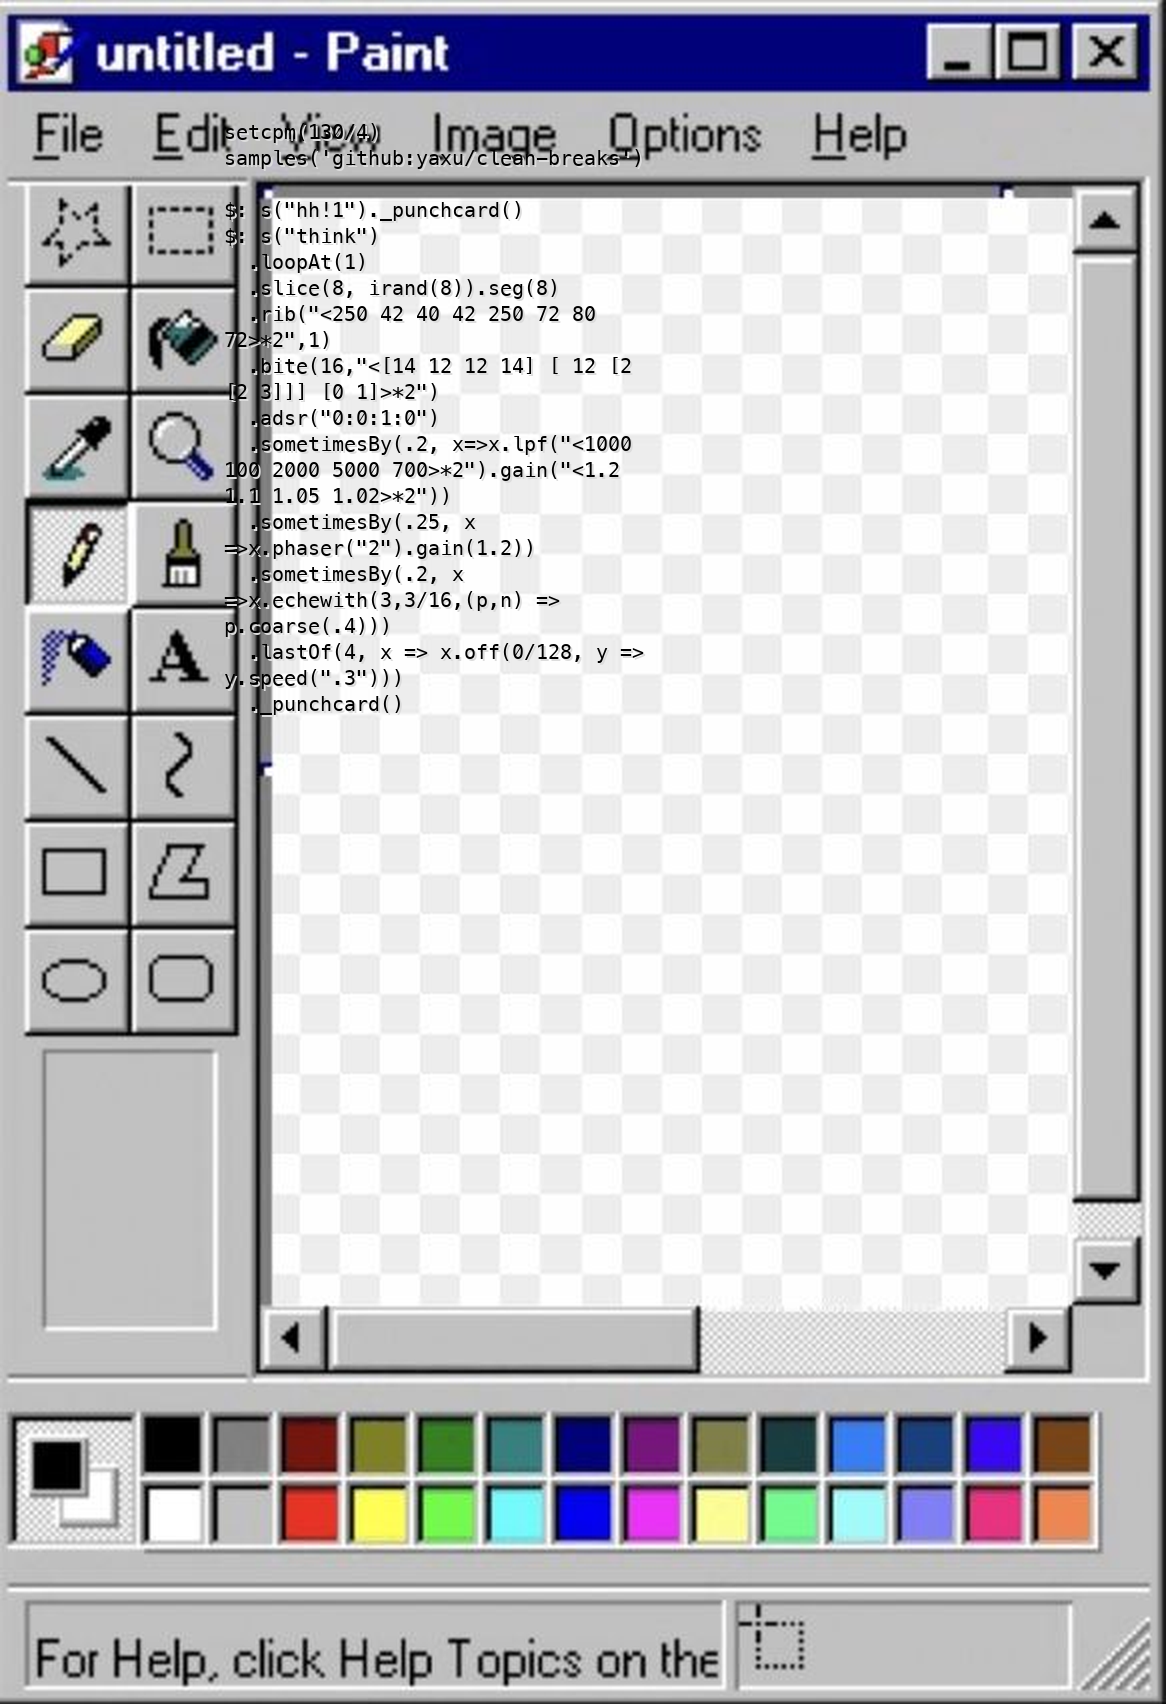
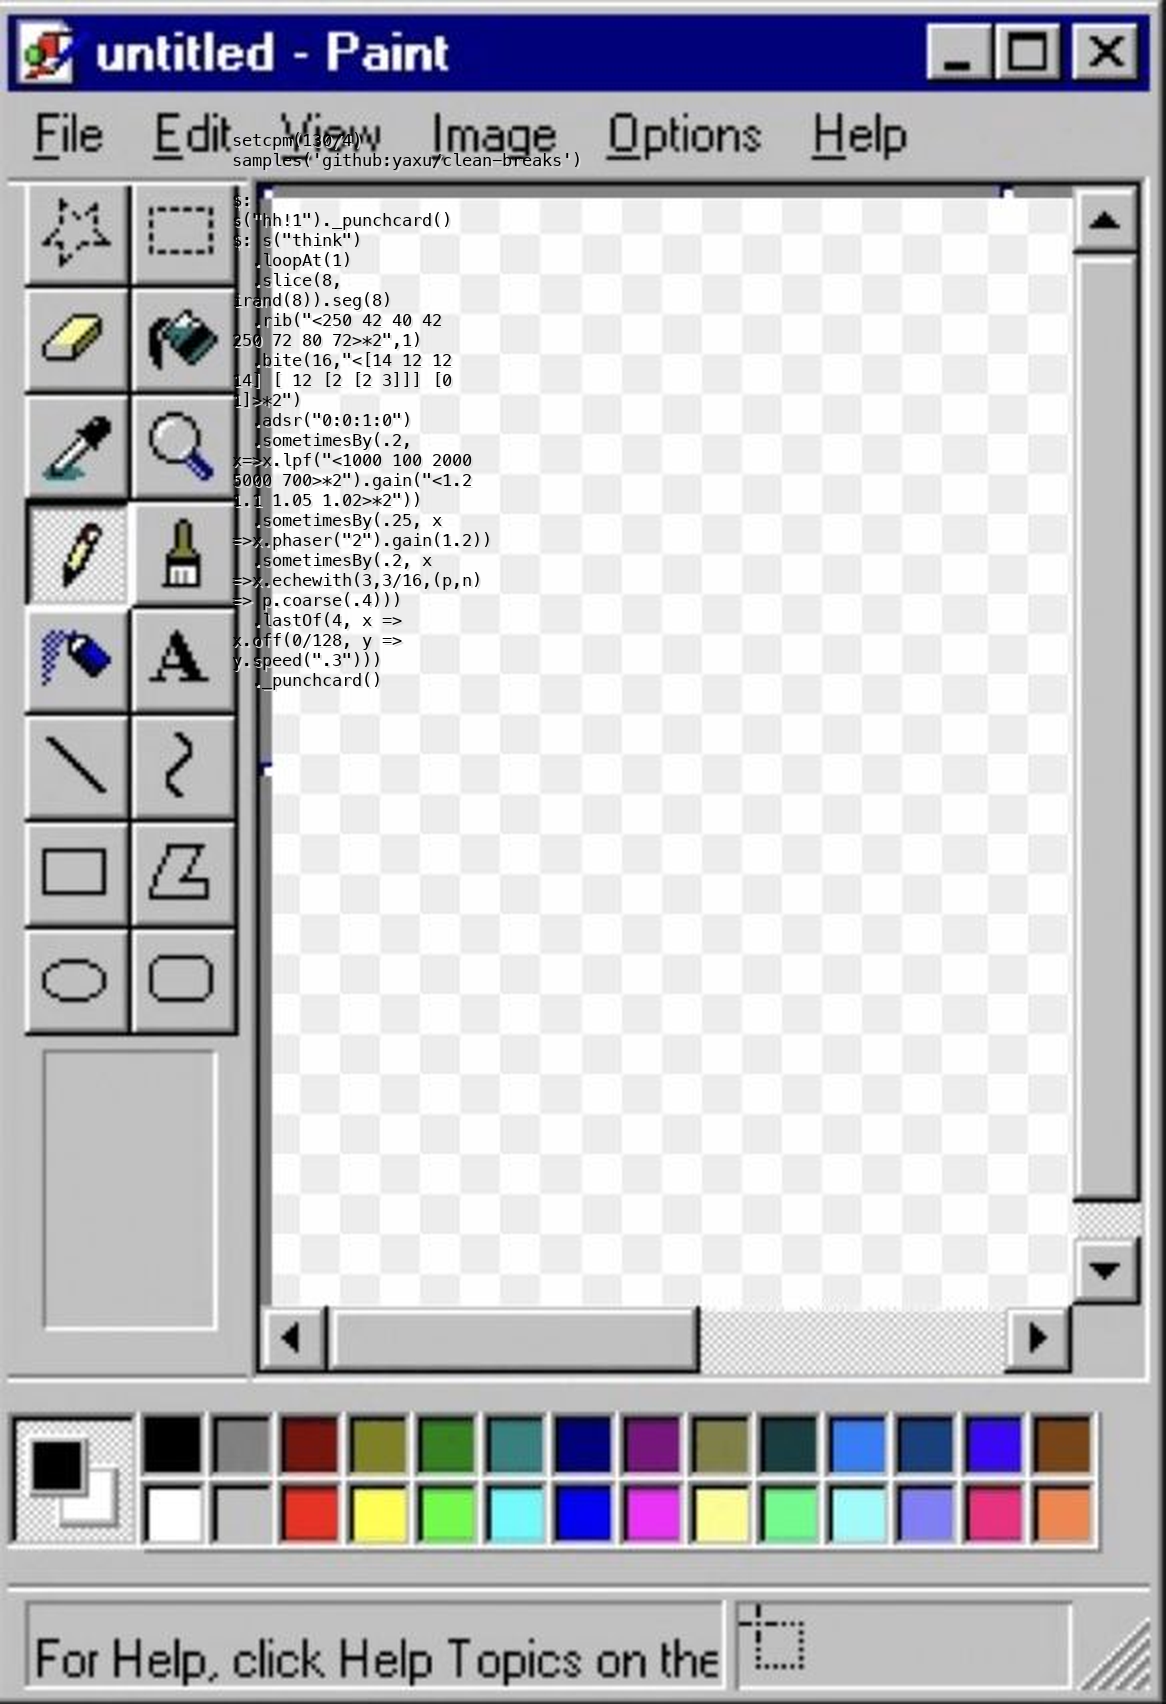
fix(dj-verbosa): make Paint the focal point with readable 17pt code
Three changes that put the Paint95 component front-and-center on
the /dj-verbosa/ page and make the Strudel code genuinely
readable inside it:

1. **Image regen at 2x scale with 17pt font.** The previous
   image was 11pt inside a 260×345 white blank (way too small to
   read on screen). Now the template is 2x (1166×1704) and the
   Menlo text is rendered at 17pt with a 2px drop-shadow for
   legibility on the white background. Soft-wrap at 24 chars/
   line so the 88-char longest line wraps cleanly. Text starts
   at y=130 (well below the menu bar at y=48-90) and ends at
   y=690 — comfortably inside the 760px canvas bottom.

2. **Drop the 'em tempo real' phrase in the readme card.** The
   readme still claimed 'Verbosa escreve o set em tempo real
   com Strudel', which describes a live-coding UX. The
    now renders a baked MS Paint image (static), so
   that's misleading. Changed to 'Verbosa compõe o set com
   Strudel' — accurate for the static-image copy flow the page
   now supports.

3. **Paint95 canvas scrolls cleanly.** The 2x image overflows
   a 1440px viewport, so the parent canvas has overflow-auto
   + image-rendering:pixelated + height:auto. The user lands
   on the title bar, but the image onLoad handler scrolls the
   wrapper 90px down so the first line of code is visible
   immediately without manual scrolling.

Verified rendered: 17pt monospace is comfortably readable. The
canvas (516px tall visible area) shows roughly the top third of
[…]

Changed region(s): [[0.1852, 0.0622, 0.5557, 0.4354]]

diff --git a/app/dj-verbosa/page.tsx b/app/dj-verbosa/page.tsx
@@ -82,8 +82,7 @@ export default function DjVerbosaPage() {
               </p>
               <p className="win-body-sm">
                 Verbosa é a persona de <strong>live-code</strong> da Cremosa.
-                Em vez de mixar faixas prontas, Verbosa escreve o set em tempo
-                real com{" "}
+                Em vez de mixar faixas prontas, Verbosa compõe o set com{" "}
                 <a
                   href="https://strudel.cc/"
                   target="_blank"
@@ -153,7 +152,26 @@ export default function DjVerbosaPage() {
               </ol>
             </div>
           </Win95Window>
-<Win95Window title="explorar.exe — voltar pra pista" controls>
+
+          <Win95Window title="chrome — explorar.cfg" controls>
+            <div className="p-4 sm:p-5 bg-win-face text-win-ink flex flex-col sm:flex-row items-start sm:items-center gap-4 justify-between">
+              <p className="win-body-sm max-w-2xl">
+                Verbosa é Verbosa, mas a Cremosa também toca.
+                Confere os sets finalizados e os vídeos das pistas.
+              </p>
+              <div className="flex flex-wrap gap-1.5">
+                <Link href="/musica/" className="no-underline">
+                  <Win95Button>Música →</Win95Button>
+                </Link>
+                <Link href="/videos/" className="no-underline">
+                  <Win95Button>Vídeos →</Win95Button>
+                </Link>
+              </div>
+            </div>
+          </Win95Window>
+        </div>
+
+        {/* Footer CTA — keep the user inside the site if they want
             <div className="p-4 sm:p-5 bg-win-face text-win-ink flex flex-col sm:flex-row items-start sm:items-center gap-4 justify-between">
               <p className="win-body-sm max-w-2xl">
                 Verbosa é Verbosa, mas a Cremosa também toca.